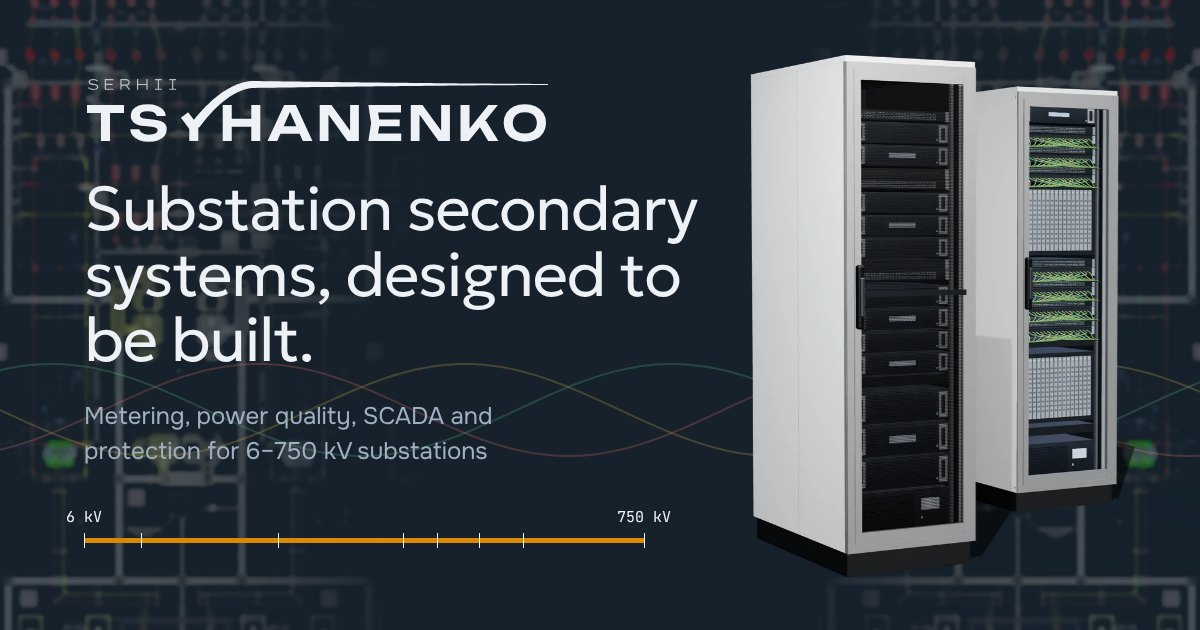
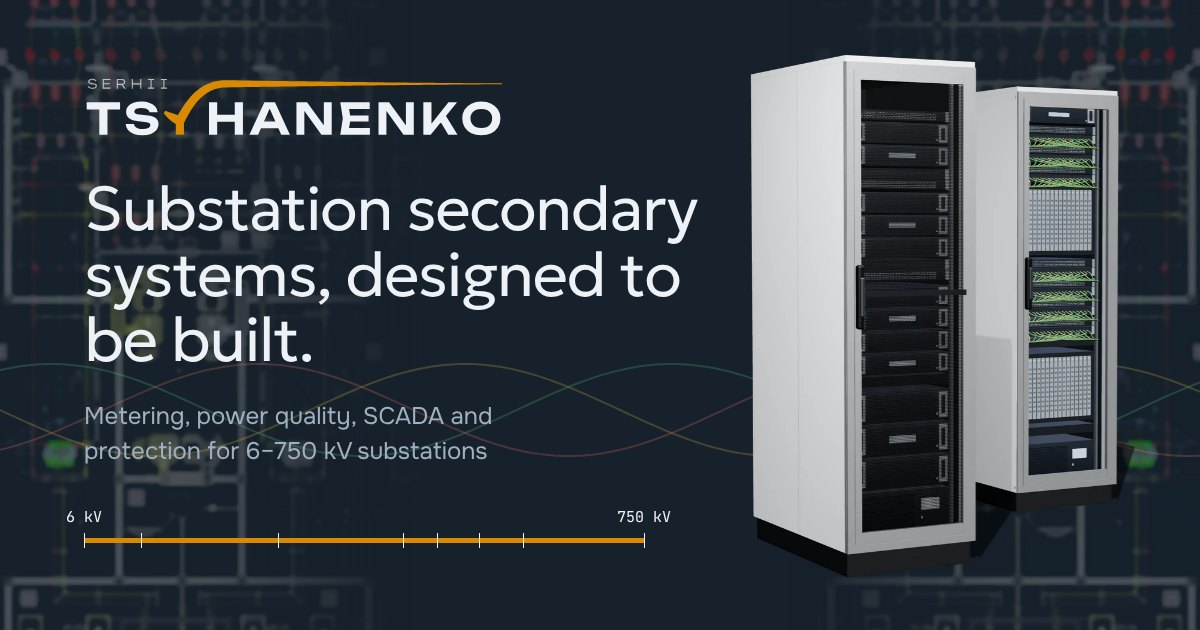
Add files via upload

Changed region(s): [[0.0617, 0.1206, 0.4625, 0.2413]]

diff --git a/index.html b/index.html
@@ -22,7 +22,7 @@
 <meta name="twitter:image" content="https://tsyhanenko-engineering.github.io/og.jpg">
 <link rel="apple-touch-icon" href="apple-touch-icon.png">
 <meta name="author" content="Serhii Tsyhanenko">
[2 lines of base64/hex data omitted]
 <link rel="preconnect" href="https://fonts.googleapis.com">
 <link rel="preconnect" href="https://fonts.gstatic.com" crossorigin>
 <link rel="stylesheet" href="https://fonts.googleapis.com/css2?family=Geologica:wght@300;500&family=JetBrains+Mono:wght@400&family=Onest:wght@400;600&display=swap">
@@ -57,7 +57,7 @@ nav a:hover{color:var(--fg)}
 .lang button{padding:0 12px}
 .lang button+button{border-left:0}
 .lang button:first-child{border-radius:2px 0 0 2px}.lang button:last-child{border-radius:0 2px 2px 0}
-.lang button[aria-pressed="true"]{background:var(--fg);border-color:var(--fg);color:var(--bg)}
+.lang button[aria-pressed="true"]{background:var(--accent);border-color:var(--accent);color:#1a1205}
 .th{width:36px;border-radius:2px;font-size:16px}
 @media (max-width:860px){nav{display:none}.hr{margin-left:auto}}
 
@@ -148,7 +148,7 @@ footer .wrap{padding-block:28px 40px;color:var(--mute);font-size:15px}
 
 <div class="sd l" aria-hidden="true"></div><div class="sd r" aria-hidden="true"></div>
 <header class="top"><div class="wrap">
-<span class="brand"><svg class="wm" role="img" aria-label="Serhii Tsyhanenko" xmlns="http://www.w3.org/2000/svg" viewBox="0 -3.48 440.79 60.48"><path d="M8.81942857142857 7.8657142857142865Q7.799428571428571 7.8657142857142865 6.910571428571428 7.647142857142858Q6.021714285714285 7.428571428571429 5.263999999999999 6.998714285714286Q4.506285714285714 6.568857142857143 3.894285714285714 5.913142857142858L4.593714285714285 4.966000000000001Q5.511714285714286 5.927714285714287 6.5608571428571425 6.364857142857144Q7.609999999999999 6.8020000000000005 8.81942857142857 6.8020000000000005Q9.781142857142857 6.8020000000000005 10.568 6.576142857142857Q11.354857142857142 6.3502857142857145 11.835714285714285 5.8985714285714295Q12.316571428571427 5.4468571428571435 12.302 4.805714285714286Q12.302 4.36857142857143 12.039714285714286 4.091714285714287Q11.77742857142857 3.814857142857144 11.362142857142857 3.640000000000001Q10.946857142857143 3.465142857142858 10.451428571428572 3.3704285714285724Q9.956 3.2757142857142867 9.504285714285714 3.2247142857142865Q9.052571428571428 3.1737142857142864 8.71742857142857 3.130000000000001Q7.828571428571428 2.998857142857144 7.041714285714285 2.824000000000001Q6.2548571428571424 2.6491428571428584 5.6574285714285715 2.3431428571428583Q5.06 2.0371428571428583 4.724857142857143 1.5490000000000013Q4.389714285714286 1.0608571428571443 4.389714285714286 0.3322857142857156Q4.389714285714286 -0.36714285714285566 4.7175714285714285 -0.9062857142857128Q5.045428571428571 -1.44542857142857 5.642857142857142 -1.824285714285713Q6.240285714285714 -2.203142857142856 7.034428571428571 -2.3925714285714275Q7.828571428571428 -2.581999999999999 8.746571428571428 -2.581999999999999Q9.73742857142857 -2.581999999999999 10.546142857142856 -2.3707142857142847Q11.354857142857142 -2.1594285714285704 12.003285714285713 -1.7587142857142846Q12.651714285714284 -1.3579999999999988 13.103428571428571 -0.7751428571428551L12.360285714285714 0.07000000000000117Q11.923142857142857 -0.4399999999999995 11.362142857142857 -0.7969999999999988Q10.801142857142857 -1.1539999999999981 10.138142857142856 -1.3434285714285696Q9.475142857142856 -1.5328571428571411 8.732 -1.5328571428571411Q7.857714285714286 -1.5328571428571411 7.158285714285714 -1.3142857142857132Q6.458857142857142 -1.0957142857142852 6.043571428571428 -0.7168571428571422Q5.628285714285714 -0.3379999999999992 5.628285714285714 0.20114285714285796Q5.628285714285714 0.6965714285714295 5.905142857142857 1.0171428571428582Q6.1819999999999995 1.337714285714287 6.6701428571428565 1.5271428571428585Q7.1582857142857135 1.71657142857143 7.799428571428571 1.825857142857144Q8.440571428571428 1.935142857142858 9.183714285714284 2.0371428571428583Q9.956 2.1245714285714294 10.721 2.2702857142857154Q11.485999999999999 2.4160000000000013 12.127142857142857 2.68557142857143Q12.768285714285714 2.9551428571428584 13.154428571428571 3.436000000000001Q13.540571428571427 3.9168571428571437 13.540571428571427 4.732857142857144Q13.540571428571427 5.665428571428572 12.957714285714285 6.372142857142858Q12.374857142857142 7.078857142857143 11.31842857142857 7.472285714285714Q10.261999999999999 7.8657142857142865 8.81942857142857 7.8657142857142865ZM19.645999999999997 7.720000000000001V-2.4799999999999986H27.86428571428571V-1.3725714285714279H20.782571428571426V6.612571428571429H27.835142857142856V7.720000000000001ZM20.257999999999996 3.0280000000000014V1.9205714285714297H27.04828571428571V3.0280000000000014ZM34.406857142857135 7.720000000000001V-2.4799999999999986H40.016857142857134Q40.93485714285714 -2.4799999999999986 41.67071428571428 -2.0719999999999983Q42.406571428571425 -1.663999999999998 42.843714285714285 -0.9718571428571412Q43.28085714285714 -0.27971428571428447 43.28085714285714 0.5654285714285727Q43.28085714285714 1.5125714285714293 42.814571428571426 2.233857142857144Q42.34828571428571 2.9551428571428584 41.55414285714285 3.3631428571428583Q40.75999999999999 3.7711428571428582 39.76914285714285 3.7711428571428582H35.543428571428564V7.720000000000001ZM42.464857142857134 7.720000000000001 39.025999999999996 3.232000000000001 40.177142857142854 2.8822857142857154 43.87828571428571 7.720000000000001ZM35.543428571428564 2.6637142857142866H39.62342857142856Q40.32285714285714 2.6637142857142866 40.876571428571424 2.386857142857144Q41.43028571428571 2.110000000000001 41.75085714285714 1.643714285714287Q42.07142857142857 1.1774285714285728 42.07142857142857 0.5945714285714301Q42.07142857142857 0.04085714285714381 41.75085714285714 -0.4035714285714276Q41.43028571428571 -0.847999999999999 40.89114285714285 -1.1102857142857134Q40.352 -1.3725714285714279 39.69628571428571 -1.3725714285714279H35.543428571428564ZM59.017999999999994 7.720000000000001V-2.4799999999999986H60.15457142857142V7.720000000000001ZM50.15857142857142 7.720000000000001V-2.4799999999999986H51.29514285714285V7.720000000000001ZM50.71228571428571 3.2465714285714293 50.726857142857135 2.1391428571428586H59.49885714285713V3.2465714285714293ZM67.14885714285714 7.720000000000001V6.568857142857143H69.81542857142857V-1.3288571428571423H67.14885714285714V-2.4799999999999986H73.61857142857141V-1.3288571428571423H70.952V6.568857142857143H73.61857142857141V7.720000000000001ZM80.62742857142857 7.720000000000001V6.568857142857143H83.294V-1.3288571428571423H80.62742857142857V-2.4799999999999986H87.09714285714284V-1.3288571428571423H84.43057142857143V6.568857142857143H87.09714285714284V7.720000000000001Z" fill="currentColor" fill-opacity="0.72"/><path d="M16.053333333333335 25.807999999999996H24.621333333333336V56.0H16.053333333333335ZM2.816 22.0H37.85866666666667V29.570666666666664H2.816ZM43.751999999999995 44.89333333333333H52.410666666666664Q52.63733333333333 46.434666666666665 53.816 47.61333333333333Q54.99466666666667 48.792 56.96666666666667 49.42666666666666Q58.93866666666666 50.06133333333333 61.568 50.06133333333333Q65.33066666666667 50.06133333333333 67.48400000000001 49.01866666666666Q69.63733333333333 47.976 69.63733333333333 46.072Q69.63733333333333 44.62133333333333 68.39066666666668 43.828Q67.144 43.034666666666666 63.744 42.672L57.17066666666667 41.992Q50.32533333333333 41.312 47.26533333333333 38.818666666666665Q44.205333333333336 36.32533333333333 44.205333333333336 32.01866666666666Q44.205333333333336 28.618666666666666 46.22266666666667 26.216Q48.24 23.813333333333333 51.88933333333333 22.543999999999997Q55.538666666666664 21.27466666666666 60.43466666666667 21.27466666666666Q65.28533333333334 21.27466666666666 69.00266666666667 22.679999999999996Q72.72 24.08533333333333 74.94133333333333 26.578666666666663Q77.16266666666667 29.072 77.344 32.42666666666666H68.68533333333333Q68.504 31.02133333333333 67.43866666666668 30.046666666666667Q66.37333333333333 29.072 64.58266666666667 28.505333333333333Q62.792 27.938666666666666 60.29866666666666 27.938666666666666Q56.85333333333333 27.938666666666666 54.836 28.913333333333334Q52.818666666666665 29.887999999999998 52.818666666666665 31.70133333333333Q52.818666666666665 33.06133333333333 54.019999999999996 33.831999999999994Q55.221333333333334 34.602666666666664 58.304 34.965333333333334L65.24000000000001 35.736Q70.0 36.23466666666667 72.856 37.32266666666666Q75.712 38.410666666666664 76.98133333333334 40.31466666666667Q78.25066666666666 42.218666666666664 78.25066666666666 45.12Q78.25066666666666 48.61066666666667 76.14266666666666 51.21733333333333Q74.03466666666667 53.824 70.24933333333334 55.27466666666666Q66.464 56.72533333333333 61.432 56.72533333333333Q56.218666666666664 56.72533333333333 52.29733333333333 55.22933333333333Q48.376 53.733333333333334 46.132 51.08133333333333Q43.888 48.42933333333333 43.751999999999995 44.89333333333333ZM131.20000000000002 22.0H139.768V56.0H131.20000000000002ZM158.21866666666668 22.0H166.7866666666667V56.0H158.21866666666668ZM135.96 35.010666666666665H161.84533333333334V42.536H135.96ZM182.92533333333336 49.154666666666664V42.218666666666664H206.40800000000002V49.154666666666664ZM200.424 22.0 216.10933333333335 56.0H206.99733333333336L193.53333333333336 25.58133333333333H196.16266666666667L182.744 56.0H173.58666666666667L189.31733333333335 22.0ZM254.46133333333336 50.152 251.69600000000003 50.650666666666666V22.0H259.992V56.0H249.2026666666667L228.48533333333336 27.34933333333333L231.2506666666667 26.850666666666665V56.0H222.9546666666667V22.0H234.06133333333335ZM298.61600000000004 35.82666666666667V42.17333333333333H274.00000000000006V35.82666666666667ZM279.8026666666667 39.0 277.53600000000006 53.053333333333335 273.9546666666667 48.97333333333333H300.0666666666667V56.0H268.968L271.5973333333334 39.0L268.968 22.0H299.84000000000003V29.026666666666664H273.9546666666667L277.53600000000006 24.946666666666665ZM340.59466666666674 50.152 337.82933333333335 50.650666666666666V22.0H346.1253333333334V56.0H335.33600000000007L314.6186666666667 27.34933333333333L317.384 26.850666666666665V56.0H309.088V22.0H320.1946666666667ZM356.144 56.0V22.0H364.6666666666667V49.10933333333333L362.3546666666667 47.38666666666667L382.4826666666667 22.0H391.5493333333334L363.8506666666667 56.0ZM372.4186666666667 39.544 378.584 34.239999999999995 392.0026666666667 56.0H382.30133333333333ZM416.98133333333334 56.72533333333333Q410.99733333333336 56.72533333333333 406.4866666666667 54.504Q401.976 52.282666666666664 399.48266666666666 48.29333333333334Q396.9893333333333 44.304 396.9893333333333 39.0Q396.9893333333333 33.696 399.48266666666666 29.706666666666663Q401.976 25.717333333333332 406.4866666666667 23.495999999999995Q410.99733333333336 21.27466666666666 416.98133333333334 21.27466666666666Q422.9653333333334 21.27466666666666 427.476 23.495999999999995Q431.9866666666667 25.717333333333332 434.50266666666664 29.706666666666663Q437.01866666666666 33.696 437.01866666666666 39.0Q437.01866666666666 44.304 434.50266666666664 48.29333333333334Q431.9866666666667 52.282666666666664 427.476 54.504Q422.9653333333334 56.72533333333333 416.98133333333334 56.72533333333333ZM416.98133333333334 49.064Q420.51733333333334 49.064 423.05600000000004 47.86266666666667Q425.5946666666667 46.66133333333333 426.9773333333334 44.394666666666666Q428.36 42.128 428.36 39.0Q428.36 35.872 426.9773333333334 33.605333333333334Q425.5946666666667 31.338666666666665 423.05600000000004 30.13733333333333Q420.51733333333334 28.935999999999996 416.98133333333334 28.935999999999996Q413.4906666666667 28.935999999999996 410.952 30.13733333333333Q408.41333333333336 31.338666666666665 407.00800000000004 33.605333333333334Q405.60266666666666 35.872 405.60266666666666 39.0Q405.60266666666666 42.128 407.00800000000004 44.394666666666666Q408.41333333333336 46.66133333333333 410.952 47.86266666666667Q413.4906666666667 49.064 416.98133333333334 49.064Z" fill="currentColor"/><path d="M95.09 31.49 L103.84 43.08" stroke="currentColor" stroke-width="8.57" stroke-linecap="butt"/><path d="M103.84 40.08 L103.84 56.00" stroke="currentColor" stroke-width="8.57" stroke-linecap="butt"/><path d="M108.80 43.62 L109.55 42.61 L110.28 41.62 L111.02 40.65 L111.75 39.70 L112.48 38.76 L113.20 37.84 L113.93 36.94 L114.65 36.05 L115.37 35.18 L116.09 34.32 L116.80 33.49 L117.51 32.66 L118.22 31.85 L118.93 31.06 L119.63 30.28 L120.33 29.52 L121.03 28.77 L121.72 28.04 L122.41 27.32 L123.10 26.62 L123.79 25.93 L124.47 25.26 L125.15 24.60 L125.82 23.95 L126.49 23.32 L127.16 22.70 L127.83 22.10 L128.49 21.51 L129.15 20.93 L129.80 20.36 L130.45 19.81 L131.10 19.28 L131.75 18.75 L132.39 18.24 L133.02 17.74 L133.66 17.25 L134.28 16.78 L134.91 16.32 L135.53 15.87 L136.15 15.43 L136.76 15.00 L137.37 14.59 L137.97 14.19 L138.57 13.79 L139.17 13.41 L139.76 13.05 L140.35 12.69 L140.93 12.34 L141.51 12.01 L142.08 11.68 L142.65 11.37 L143.22 11.06 L143.78 10.77 L144.34 10.48 L144.89 10.21 L145.43 9.95 L145.98 9.69 L146.51 9.45 L147.05 9.21 L147.57 8.99 L148.10 8.77 L148.61 8.56 L149.13 8.36 L149.63 8.17 L150.13 7.99 L150.63 7.82 L151.12 7.66 L151.61 7.50 L152.09 7.35 L152.57 7.21 L153.04 7.08 L153.50 6.96 L153.96 6.84 L154.42 6.73 L154.87 6.63 L155.31 6.53 L155.75 6.45 L156.18 6.36 L156.61 6.29 L157.03 6.22 L157.44 6.16 L157.85 6.11 L158.26 6.06 L158.66 6.02 L159.05 5.98 L159.43 5.95 L159.81 5.93 L160.19 5.91 L160.55 5.89 L160.92 5.89 L165.55 5.82 L170.18 5.76 L174.81 5.69 L179.44 5.63 L184.07 5.57 L188.70 5.51 L193.33 5.45 L197.96 5.38 L202.60 5.32 L207.23 5.26 L211.86 5.20 L216.49 5.14 L221.12 5.09 L225.75 5.03 L230.38 4.97 L235.01 4.91 L239.65 4.86 L244.28 4.80 L248.91 4.74 L253.54 4.69 L258.17 4.63 L262.80 4.58 L267.43 4.53 L272.06 4.47 L276.69 4.42 L281.33 4.37 L285.96 4.32 L290.59 4.27 L295.22 4.22 L299.85 4.17 L304.48 4.12 L309.11 4.07 L313.74 4.02 L318.38 3.98 L323.01 3.93 L327.64 3.89 L332.27 3.84 L336.90 3.80 L341.53 3.76 L346.16 3.71 L350.79 3.67 L355.43 3.63 L360.06 3.59 L364.69 3.55 L369.32 3.52 L373.95 3.48 L378.58 3.45 L383.21 3.41 L387.84 3.38 L392.47 3.35 L397.11 3.31 L401.74 3.28 L406.37 3.26 L411.00 3.23 L415.63 3.21 L420.26 3.18 L424.89 3.16 L429.52 3.14 L434.16 3.13 L438.79 3.12 L438.79 2.12 L434.16 2.11 L429.52 2.10 L424.89 2.08 L420.26 2.06 L415.63 2.03 L411.00 2.01 L406.37 1.98 L401.74 1.96 L397.11 1.93 L392.47 1.89 L387.84 1.86 L383.21 1.83 L378.58 1.79 L373.95 1.76 L369.32 1.72 L364.69 1.69 L360.06 1.65 L355.43 1.61 L350.79 1.57 L346.16 1.53 L341.53 1.48 L336.90 1.44 L332.27 1.40 L327.64 1.35 L323.01 1.31 L318.38 1.26 L313.74 1.22 L309.11 1.17 L304.48 1.12 L299.85 1.07 L295.22 1.02 L290.59 0.97 L285.96 0.92 L281.33 0.87 L276.69 0.82 L272.06 0.77 L267.43 0.71 L262.80 0.66 L258.17 0.61 L253.54 0.55 L248.91 0.50 L244.28 0.44 L239.65 0.38 L235.01 0.33 L230.38 0.27 L225.75 0.21 L221.12 0.15 L216.49 0.10 L211.86 0.04 L207.23 -0.02 L202.60 -0.08 L197.96 -0.14 L193.33 -0.21 L188.70 -0.27 L184.07 -0.33 L179.44 -0.39 L174.81 -0.45 L170.18 -0.52 L165.55 -0.58 L160.91 -0.65 L160.46 -0.65 L160.00 -0.64 L159.54 -0.63 L159.07 -0.62 L158.59 -0.59 L158.11 -0.56 L157.62 -0.53 L157.13 -0.48 L156.63 -0.43 L156.12 -0.37 L155.61 -0.30 L155.10 -0.23 L154.58 -0.15 L154.05 -0.06 L153.52 0.04 L152.99 0.15 L152.45 0.26 L151.90 0.38 L151.35 0.51 L150.79 0.65 L150.23 0.80 L149.67 0.96 L149.10 1.12 L148.52 1.30 L147.94 1.48 L147.36 1.67 L146.77 1.87 L146.17 2.08 L145.57 2.30 L144.97 2.53 L144.36 2.77 L143.75 3.02 L143.13 3.28 L142.51 3.55 L141.88 3.83 L141.26 4.13 L140.62 4.43 L139.98 4.74 L139.34 5.06 L138.69 5.39 L138.04 5.74 L137.39 6.09 L136.73 6.46 L136.07 6.84 L135.40 7.23 L134.73 7.63 L134.06 8.04 L133.38 8.46 L132.69 8.90 L132.01 9.35 L131.32 9.81 L130.63 10.28 L129.93 10.76 L129.23 11.26 L128.53 11.77 L127.82 12.29 L127.11 12.82 L126.40 13.37 L125.68 13.93 L124.96 14.51 L124.23 15.10 L123.51 15.70 L122.78 16.31 L122.04 16.94 L121.31 17.58 L120.57 18.24 L119.82 18.90 L119.08 19.59 L118.33 20.29 L117.58 21.00 L116.82 21.73 L116.06 22.47 L115.30 23.22 L114.54 23.99 L113.77 24.78 L113.00 25.58 L112.23 26.40 L111.46 27.23 L110.68 28.08 L109.90 28.94 L109.12 29.82 L108.33 30.71 L107.55 31.62 L106.76 32.55 L105.97 33.49 L105.17 34.45 L104.37 35.42 L103.58 36.41 L102.77 37.42 L101.98 38.44Z" fill="currentColor"/></svg></span>
+<span class="brand"><svg class="wm" role="img" aria-label="Serhii Tsyhanenko" xmlns="http://www.w3.org/2000/svg" viewBox="0 -3.48 440.79 67.19"><path d="M8.81942857142857 7.8657142857142865Q7.799428571428571 7.8657142857142865 6.910571428571428 7.647142857142858Q6.021714285714285 7.428571428571429 5.263999999999999 6.998714285714286Q4.506285714285714 6.568857142857143 3.894285714285714 5.913142857142858L4.593714285714285 4.966000000000001Q5.511714285714286 5.927714285714287 6.5608571428571425 6.364857142857144Q7.609999999999999 6.8020000000000005 8.81942857142857 6.8020000000000005Q9.781142857142857 6.8020000000000005 10.568 6.576142857142857Q11.354857142857142 6.3502857142857145 11.835714285714285 5.8985714285714295Q12.316571428571427 5.4468571428571435 12.302 4.805714285714286Q12.302 4.36857142857143 12.039714285714286 4.091714285714287Q11.77742857142857 3.814857142857144 11.362142857142857 3.640000000000001Q10.946857142857143 3.465142857142858 10.451428571428572 3.3704285714285724Q9.956 3.2757142857142867 9.504285714285714 3.2247142857142865Q9.052571428571428 3.1737142857142864 8.71742857142857 3.130000000000001Q7.828571428571428 2.998857142857144 7.041714285714285 2.824000000000001Q6.2548571428571424 2.6491428571428584 5.6574285714285715 2.3431428571428583Q5.06 2.0371428571428583 4.724857142857143 1.5490000000000013Q4.389714285714286 1.0608571428571443 4.389714285714286 0.3322857142857156Q4.389714285714286 -0.36714285714285566 4.7175714285714285 -0.9062857142857128Q5.045428571428571 -1.44542857142857 5.642857142857142 -1.824285714285713Q6.240285714285714 -2.203142857142856 7.034428571428571 -2.3925714285714275Q7.828571428571428 -2.581999999999999 8.746571428571428 -2.581999999999999Q9.73742857142857 -2.581999999999999 10.546142857142856 -2.3707142857142847Q11.354857142857142 -2.1594285714285704 12.003285714285713 -1.7587142857142846Q12.651714285714284 -1.3579999999999988 13.103428571428571 -0.7751428571428551L12.360285714285714 0.07000000000000117Q11.923142857142857 -0.4399999999999995 11.362142857142857 -0.7969999999999988Q10.801142857142857 -1.1539999999999981 10.138142857142856 -1.3434285714285696Q9.475142857142856 -1.5328571428571411 8.732 -1.5328571428571411Q7.857714285714286 -1.5328571428571411 7.158285714285714 -1.3142857142857132Q6.458857142857142 -1.0957142857142852 6.043571428571428 -0.7168571428571422Q5.628285714285714 -0.3379999999999992 5.628285714285714 0.20114285714285796Q5.628285714285714 0.6965714285714295 5.905142857142857 1.0171428571428582Q6.1819999999999995 1.337714285714287 6.6701428571428565 1.5271428571428585Q7.1582857142857135 1.71657142857143 7.799428571428571 1.825857142857144Q8.440571428571428 1.935142857142858 9.183714285714284 2.0371428571428583Q9.956 2.1245714285714294 10.721 2.2702857142857154Q11.485999999999999 2.4160000000000013 12.127142857142857 2.68557142857143Q12.768285714285714 2.9551428571428584 13.154428571428571 3.436000000000001Q13.540571428571427 3.9168571428571437 13.540571428571427 4.732857142857144Q13.540571428571427 5.665428571428572 12.957714285714285 6.372142857142858Q12.374857142857142 7.078857142857143 11.31842857142857 7.472285714285714Q10.261999999999999 7.8657142857142865 8.81942857142857 7.8657142857142865ZM19.645999999999997 7.720000000000001V-2.4799999999999986H27.86428571428571V-1.3725714285714279H20.782571428571426V6.612571428571429H27.835142857142856V7.720000000000001ZM20.257999999999996 3.0280000000000014V1.9205714285714297H27.04828571428571V3.0280000000000014ZM34.406857142857135 7.720000000000001V-2.4799999999999986H40.016857142857134Q40.93485714285714 -2.4799999999999986 41.67071428571428 -2.0719999999999983Q42.406571428571425 -1.663999999999998 42.843714285714285 -0.9718571428571412Q43.28085714285714 -0.27971428571428447 43.28085714285714 0.5654285714285727Q43.28085714285714 1.5125714285714293 42.814571428571426 2.233857142857144Q42.34828571428571 2.9551428571428584 41.55414285714285 3.3631428571428583Q40.75999999999999 3.7711428571428582 39.76914285714285 3.7711428571428582H35.543428571428564V7.720000000000001ZM42.464857142857134 7.720000000000001 39.025999999999996 3.232000000000001 40.177142857142854 2.8822857142857154 43.87828571428571 7.720000000000001ZM35.543428571428564 2.6637142857142866H39.62342857142856Q40.32285714285714 2.6637142857142866 40.876571428571424 2.386857142857144Q41.43028571428571 2.110000000000001 41.75085714285714 1.643714285714287Q42.07142857142857 1.1774285714285728 42.07142857142857 0.5945714285714301Q42.07142857142857 0.04085714285714381 41.75085714285714 -0.4035714285714276Q41.43028571428571 -0.847999999999999 40.89114285714285 -1.1102857142857134Q40.352 -1.3725714285714279 39.69628571428571 -1.3725714285714279H35.543428571428564ZM59.017999999999994 7.720000000000001V-2.4799999999999986H60.15457142857142V7.720000000000001ZM50.15857142857142 7.720000000000001V-2.4799999999999986H51.29514285714285V7.720000000000001ZM50.71228571428571 3.2465714285714293 50.726857142857135 2.1391428571428586H59.49885714285713V3.2465714285714293ZM67.14885714285714 7.720000000000001V6.568857142857143H69.81542857142857V-1.3288571428571423H67.14885714285714V-2.4799999999999986H73.61857142857141V-1.3288571428571423H70.952V6.568857142857143H73.61857142857141V7.720000000000001ZM80.62742857142857 7.720000000000001V6.568857142857143H83.294V-1.3288571428571423H80.62742857142857V-2.4799999999999986H87.09714285714284V-1.3288571428571423H84.43057142857143V6.568857142857143H87.09714285714284V7.720000000000001Z" fill="currentColor" fill-opacity="0.72"/><path d="M16.053333333333335 25.807999999999996H24.621333333333336V56.0H16.053333333333335ZM2.816 22.0H37.85866666666667V29.570666666666664H2.816ZM43.751999999999995 44.89333333333333H52.410666666666664Q52.63733333333333 46.434666666666665 53.816 47.61333333333333Q54.99466666666667 48.792 56.96666666666667 49.42666666666666Q58.93866666666666 50.06133333333333 61.568 50.06133333333333Q65.33066666666667 50.06133333333333 67.48400000000001 49.01866666666666Q69.63733333333333 47.976 69.63733333333333 46.072Q69.63733333333333 44.62133333333333 68.39066666666668 43.828Q67.144 43.034666666666666 63.744 42.672L57.17066666666667 41.992Q50.32533333333333 41.312 47.26533333333333 38.818666666666665Q44.205333333333336 36.32533333333333 44.205333333333336 32.01866666666666Q44.205333333333336 28.618666666666666 46.22266666666667 26.216Q48.24 23.813333333333333 51.88933333333333 22.543999999999997Q55.538666666666664 21.27466666666666 60.43466666666667 21.27466666666666Q65.28533333333334 21.27466666666666 69.00266666666667 22.679999999999996Q72.72 24.08533333333333 74.94133333333333 26.578666666666663Q77.16266666666667 29.072 77.344 32.42666666666666H68.68533333333333Q68.504 31.02133333333333 67.43866666666668 30.046666666666667Q66.37333333333333 29.072 64.58266666666667 28.505333333333333Q62.792 27.938666666666666 60.29866666666666 27.938666666666666Q56.85333333333333 27.938666666666666 54.836 28.913333333333334Q52.818666666666665 29.887999999999998 52.818666666666665 31.70133333333333Q52.818666666666665 33.06133333333333 54.019999999999996 33.831999999999994Q55.221333333333334 34.602666666666664 58.304 34.965333333333334L65.24000000000001 35.736Q70.0 36.23466666666667 72.856 37.32266666666666Q75.712 38.410666666666664 76.98133333333334 40.31466666666667Q78.25066666666666 42.218666666666664 78.25066666666666 45.12Q78.25066666666666 48.61066666666667 76.14266666666666 51.21733333333333Q74.03466666666667 53.824 70.24933333333334 55.27466666666666Q66.464 56.72533333333333 61.432 56.72533333333333Q56.218666666666664 56.72533333333333 52.29733333333333 55.22933333333333Q48.376 53.733333333333334 46.132 51.08133333333333Q43.888 48.42933333333333 43.751999999999995 44.89333333333333Z" fill="currentColor"/><path d="M131.20000000000002 22.0H139.768V56.0H131.20000000000002ZM158.21866666666668 22.0H166.7866666666667V56.0H158.21866666666668ZM135.96 35.010666666666665H161.84533333333334V42.536H135.96ZM182.92533333333336 49.154666666666664V42.218666666666664H206.40800000000002V49.154666666666664ZM200.424 22.0 216.10933333333335 56.0H206.99733333333336L193.53333333333336 25.58133333333333H196.16266666666667L182.744 56.0H173.58666666666667L189.31733333333335 22.0ZM254.46133333333336 50.152 251.69600000000003 50.650666666666666V22.0H259.992V56.0H249.2026666666667L228.48533333333336 27.34933333333333L231.2506666666667 26.850666666666665V56.0H222.9546666666667V22.0H234.06133333333335ZM298.61600000000004 35.82666666666667V42.17333333333333H274.00000000000006V35.82666666666667ZM279.8026666666667 39.0 277.53600000000006 53.053333333333335 273.9546666666667 48.97333333333333H300.0666666666667V56.0H268.968L271.5973333333334 39.0L268.968 22.0H299.84000000000003V29.026666666666664H273.9546666666667L277.53600000000006 24.946666666666665ZM340.59466666666674 50.152 337.82933333333335 50.650666666666666V22.0H346.1253333333334V56.0H335.33600000000007L314.6186666666667 27.34933333333333L317.384 26.850666666666665V56.0H309.088V22.0H320.1946666666667ZM356.144 56.0V22.0H364.6666666666667V49.10933333333333L362.3546666666667 47.38666666666667L382.4826666666667 22.0H391.5493333333334L363.8506666666667 56.0ZM372.4186666666667 39.544 378.584 34.239999999999995 392.0026666666667 56.0H382.30133333333333ZM416.98133333333334 56.72533333333333Q410.99733333333336 56.72533333333333 406.4866666666667 54.504Q401.976 52.282666666666664 399.48266666666666 48.29333333333334Q396.9893333333333 44.304 396.9893333333333 39.0Q396.9893333333333 33.696 399.48266666666666 29.706666666666663Q401.976 25.717333333333332 406.4866666666667 23.495999999999995Q410.99733333333336 21.27466666666666 416.98133333333334 21.27466666666666Q422.9653333333334 21.27466666666666 427.476 23.495999999999995Q431.9866666666667 25.717333333333332 434.50266666666664 29.706666666666663Q437.01866666666666 33.696 437.01866666666666 39.0Q437.01866666666666 44.304 434.50266666666664 48.29333333333334Q431.9866666666667 52.282666666666664 427.476 54.504Q422.9653333333334 56.72533333333333 416.98133333333334 56.72533333333333ZM416.98133333333334 49.064Q420.51733333333334 49.064 423.05600000000004 47.86266666666667Q425.5946666666667 46.66133333333333 426.9773333333334 44.394666666666666Q428.36 42.128 428.36 39.0Q428.36 35.872 426.9773333333334 33.605333333333334Q425.5946666666667 31.338666666666665 423.05600000000004 30.13733333333333Q420.51733333333334 28.935999999999996 416.98133333333334 28.935999999999996Q413.4906666666667 28.935999999999996 410.952 30.13733333333333Q408.41333333333336 31.338666666666665 407.00800000000004 33.605333333333334Q405.60266666666666 35.872 405.60266666666666 39.0Q405.60266666666666 42.128 407.00800000000004 44.394666666666666Q408.41333333333336 46.66133333333333 410.952 47.86266666666667Q413.4906666666667 49.064 416.98133333333334 49.064Z" fill="currentColor"/><path d="M100.61 39.72 V56.00" style="stroke:var(--accent)" stroke-width="8.57"/><path d="M83.60 33.40 L84.06 33.99 L84.53 34.57 L85.01 35.16 L85.50 35.73 L86.00 36.29 L86.50 36.85 L87.00 37.39 L87.51 37.93 L88.03 38.45 L88.55 38.96 L89.07 39.46 L89.60 39.94 L90.13 40.41 L90.66 40.87 L91.18 41.31 L91.71 41.73 L92.24 42.14 L92.76 42.53 L93.28 42.91 L93.80 43.27 L94.31 43.62 L94.81 43.94 L95.31 44.26 L95.79 44.55 L96.27 44.83 L96.74 45.10 L97.19 45.35 L97.63 45.59 L98.06 45.81 L103.63 45.45 L105.33 42.99 L105.78 42.09 L106.23 41.19 L106.68 40.31 L107.14 39.43 L107.60 38.55 L108.06 37.68 L108.53 36.82 L108.99 35.97 L109.47 35.13 L109.94 34.29 L110.42 33.46 L110.91 32.65 L111.40 31.84 L111.89 31.03 L112.38 30.24 L112.88 29.46 L113.39 28.69 L113.90 27.93 L114.41 27.17 L114.93 26.43 L115.46 25.70 L115.99 24.98 L116.52 24.27 L117.06 23.57 L117.61 22.88 L118.16 22.21 L118.72 21.55 L119.28 20.90 L119.85 20.26 L120.42 19.63 L121.00 19.02 L121.59 18.41 L122.18 17.83 L122.78 17.25 L123.39 16.69 L124.00 16.14 L124.62 15.60 L125.25 15.08 L125.88 14.57 L126.52 14.08 L127.17 13.60 L127.83 13.13 L128.50 12.68 L129.17 12.24 L129.85 11.82 L130.54 11.41 L131.24 11.01 L131.95 10.63 L132.67 10.27 L133.40 9.92 L134.13 9.58 L134.88 9.26 L135.64 8.96 L136.41 8.67 L137.19 8.40 L137.98 8.14 L138.79 7.90 L139.61 7.68 L140.43 7.47 L141.28 7.28 L142.13 7.11 L143.00 6.95 L143.88 6.81 L144.78 6.69 L145.69 6.59 L146.62 6.51 L147.56 6.44 L148.51 6.40 L149.49 6.37 L154.31 6.30 L159.13 6.23 L163.95 6.15 L168.77 6.08 L173.59 6.01 L178.42 5.94 L183.24 5.87 L188.06 5.80 L192.88 5.73 L197.70 5.66 L202.52 5.59 L207.35 5.53 L212.17 5.46 L216.99 5.39 L221.81 5.33 L226.63 5.26 L231.45 5.19 L236.28 5.13 L241.10 5.06 L245.92 5.00 L250.74 4.94 L255.56 4.88 L260.38 4.81 L265.21 4.75 L270.03 4.69 L274.85 4.63 L279.67 4.57 L284.49 4.51 L289.31 4.45 L294.14 4.40 L298.96 4.34 L303.78 4.28 L308.60 4.23 L313.42 4.17 L318.24 4.12 L323.07 4.06 L327.89 4.01 L332.71 3.96 L337.53 3.91 L342.35 3.86 L347.17 3.81 L352.00 3.76 L356.82 3.71 L361.64 3.67 L366.46 3.62 L371.28 3.58 L376.10 3.53 L380.93 3.49 L385.75 3.45 L390.57 3.41 L395.39 3.37 L400.21 3.33 L405.03 3.30 L409.86 3.27 L414.68 3.23 L419.50 3.20 L424.32 3.18 L429.14 3.15 L433.96 3.13 L438.79 3.12 L438.79 2.12 L433.96 2.11 L429.14 2.09 L424.32 2.06 L419.50 2.04 L414.68 2.01 L409.86 1.97 L405.03 1.94 L400.21 1.91 L395.39 1.87 L390.57 1.83 L385.75 1.79 L380.93 1.75 L376.10 1.71 L371.28 1.66 L366.46 1.62 L361.64 1.57 L356.82 1.53 L352.00 1.48 L347.17 1.43 L342.35 1.38 L337.53 1.33 L332.71 1.28 L327.89 1.23 L323.07 1.18 L318.24 1.12 L313.42 1.07 L308.60 1.01 L303.78 0.96 L298.96 0.90 L294.14 0.84 L289.31 0.79 L284.49 0.73 L279.67 0.67 L274.85 0.61 L270.03 0.55 L265.21 0.49 L260.38 0.43 L255.56 0.36 L250.74 0.30 L245.92 0.24 L241.10 0.18 L236.28 0.11 L231.45 0.05 L226.63 -0.02 L221.81 -0.09 L216.99 -0.15 L212.17 -0.22 L207.35 -0.29 L202.52 -0.35 L197.70 -0.42 L192.88 -0.49 L188.06 -0.56 L183.24 -0.63 L178.42 -0.70 L173.59 -0.77 L168.77 -0.84 L163.95 -0.91 L159.13 -0.99 L154.31 -1.06 L149.48 -1.13 L148.36 -1.14 L147.24 -1.12 L146.14 -1.08 L145.05 -1.01 L143.97 -0.92 L142.91 -0.81 L141.85 -0.68 L140.81 -0.53 L139.78 -0.35 L138.76 -0.16 L137.75 0.06 L136.75 0.30 L135.77 0.56 L134.80 0.85 L133.84 1.15 L132.89 1.47 L131.95 1.81 L131.02 2.17 L130.11 2.55 L129.21 2.95 L128.32 3.37 L127.44 3.81 L126.57 4.26 L125.72 4.73 L124.87 5.22 L124.04 5.72 L123.22 6.25 L122.41 6.78 L121.61 7.34 L120.83 7.90 L120.05 8.49 L119.28 9.08 L118.53 9.70 L117.78 10.32 L117.05 10.96 L116.32 11.61 L115.61 12.28 L114.91 12.96 L114.21 13.65 L113.53 14.35 L112.85 15.06 L112.18 15.79 L111.52 16.52 L110.87 17.27 L110.23 18.03 L109.60 18.79 L108.97 19.57 L108.35 20.35 L107.74 21.15 L107.14 21.95 L106.55 22.77 L105.96 23.59 L105.38 24.42 L104.80 25.26 L104.23 26.10 L103.67 26.96 L103.11 27.82 L102.56 28.68 L102.02 29.56 L101.48 30.44 L100.94 31.32 L100.41 32.22 L99.89 33.12 L99.37 34.02 L98.85 34.93 L98.34 35.84 L97.83 36.76 L97.33 37.68 L96.83 38.61 L97.59 37.99 L102.34 37.22 L101.91 37.02 L101.47 36.82 L101.02 36.61 L100.55 36.40 L100.07 36.19 L99.57 35.98 L99.06 35.78 L98.53 35.57 L98.00 35.36 L97.45 35.15 L96.89 34.94 L96.31 34.74 L95.73 34.53 L95.14 34.33 L94.53 34.12 L93.92 33.91 L93.30 33.71 L92.66 33.50 L92.03 33.29 L91.38 33.08 L90.73 32.87 L90.08 32.66 L89.42 32.44 L88.75 32.21 L88.08 31.99 L87.42 31.75 L86.75 31.51 L86.08 31.26 L85.40 31.00Z" style="fill:var(--accent)"/></svg></span>
 <nav aria-label="Sections"><a href="#design" data-k="s1">What I design</a><a href="#projects" data-k="s2">Projects</a><a href="#equipment" data-k="s3">Equipment I design with</a><a href="#contact" data-k="s4">Work with me</a></nav>
 <div class="hr">
 <div class="lang" role="group" aria-label="Language"><button type="button" data-l="en" aria-pressed="true">EN</button><button type="button" data-l="uk" aria-pressed="false">UA</button><button type="button" data-l="ru" aria-pressed="false">RU</button></div>
@@ -237,7 +237,7 @@ footer .wrap{padding-block:28px 40px;color:var(--mute);font-size:15px}
 <p class="mail"><span id="addr">stsyganenko.sep@gmail.com</span><button id="cp" type="button" data-k="copy">Copy</button></p>
 </div></section>
 </main>
-<footer><div class="wrap foot"><svg class="mark" viewBox="0 0 64 64" aria-hidden="true" focusable="false"><rect width="64" height="64" rx="12" fill="#16212c"/><path d="M20.46 28.37 L28.18 38.60" stroke="#eef2f6" stroke-width="7.56" stroke-linecap="butt"/><path d="M28.18 35.95 L28.18 50.00" stroke="#eef2f6" stroke-width="7.56" stroke-linecap="butt"/><path d="M32.56 39.08 L32.96 38.43 L33.35 37.80 L33.75 37.18 L34.15 36.58 L34.54 35.98 L34.94 35.39 L35.33 34.82 L35.73 34.25 L36.12 33.70 L36.51 33.15 L36.91 32.62 L37.30 32.09 L37.69 31.58 L38.09 31.07 L38.48 30.58 L38.87 30.09 L39.26 29.61 L39.65 29.15 L40.04 28.69 L40.42 28.24 L40.81 27.80 L41.20 27.37 L41.58 26.95 L41.97 26.53 L42.35 26.13 L42.73 25.74 L43.11 25.35 L43.49 24.97 L43.87 24.60 L44.25 24.24 L44.62 23.89 L45.00 23.54 L45.37 23.21 L45.75 22.88 L46.12 22.56 L46.49 22.25 L46.85 21.94 L47.22 21.64 L47.59 21.35 L47.95 21.07 L48.31 20.80 L48.67 20.53 L49.03 20.27 L49.39 20.02 L49.74 19.77 L50.09 19.54 L50.45 19.30 L50.80 19.08 L51.14 18.86 L51.49 18.65 L51.83 18.45 L52.17 18.25 L52.51 18.06 L52.85 17.87 L53.19 17.69 L53.52 17.52 L53.85 17.35 L54.18 17.19 L54.50 17.04 L54.83 16.89 L55.15 16.74 L55.47 16.61 L55.79 16.48 L56.10 16.35 L56.41 16.23 L56.72 16.11 L57.03 16.00 L57.33 15.90 L57.64 15.80 L57.94 15.70 L58.23 15.61 L58.53 15.53 L58.82 15.45 L59.10 15.37 L59.39 15.30 L59.67 15.23 L59.95 15.17 L60.23 15.11 L60.50 15.06 L60.77 15.01 L61.04 14.96 L61.30 14.92 L61.57 14.88 L61.82 14.85 L62.08 14.82 L62.33 14.80 L62.58 14.77 L62.83 14.75 L63.07 14.74 L63.32 14.73 L63.18 13.28 L63.06 13.28 L62.94 13.29 L62.82 13.29 L62.70 13.30 L62.58 13.31 L62.45 13.31 L62.33 13.32 L62.21 13.32 L62.09 13.33 L61.97 13.33 L61.84 13.33 L61.72 13.34 L61.60 13.34 L61.48 13.35 L61.36 13.35 L61.24 13.36 L61.11 13.36 L60.99 13.37 L60.87 13.37 L60.75 13.38 L60.63 13.38 L60.51 13.39 L60.38 13.39 L60.26 13.39 L60.14 13.40 L60.02 13.40 L59.90 13.41 L59.77 13.41 L59.65 13.41 L59.53 13.42 L59.41 13.42 L59.29 13.43 L59.17 13.43 L59.04 13.43 L58.92 13.44 L58.80 13.44 L58.68 13.44 L58.56 13.45 L58.44 13.45 L58.31 13.45 L58.19 13.46 L58.07 13.46 L57.95 13.46 L57.83 13.47 L57.70 13.47 L57.58 13.47 L57.46 13.48 L57.34 13.48 L57.22 13.48 L57.10 13.48 L56.97 13.49 L56.85 13.49 L56.73 13.49 L56.61 13.49 L56.49 13.49 L56.37 13.50 L56.24 13.50 L56.12 13.50 L56.00 13.50 L56.00 14.50 L56.12 14.50 L56.24 14.50 L56.37 14.50 L56.49 14.51 L56.61 14.51 L56.73 14.51 L56.85 14.51 L56.97 14.51 L57.10 14.52 L57.22 14.52 L57.34 14.52 L57.46 14.52 L57.58 14.53 L57.70 14.53 L57.83 14.53 L57.95 14.54 L58.07 14.54 L58.19 14.54 L58.31 14.55 L58.44 14.55 L58.56 14.55 L58.68 14.56 L58.80 14.56 L58.92 14.56 L59.04 14.57 L59.17 14.57 L59.29 14.57 L59.41 14.58 L59.53 14.58 L59.65 14.59 L59.77 14.59 L59.90 14.59 L60.02 14.60 L60.14 14.60 L60.26 14.61 L60.38 14.61 L60.51 14.61 L60.63 14.62 L60.75 14.62 L60.87 14.63 L60.99 14.63 L61.11 14.64 L61.24 14.64 L61.36 14.65 L61.48 14.65 L61.60 14.66 L61.72 14.66 L61.84 14.67 L61.97 14.67 L62.09 14.67 L62.21 14.68 L62.33 14.68 L62.45 14.69 L62.58 14.69 L62.70 14.70 L62.82 14.71 L62.94 14.71 L63.06 14.72 L63.18 14.72 L63.30 13.27 L63.05 13.26 L62.79 13.26 L62.52 13.26 L62.25 13.26 L61.98 13.26 L61.71 13.27 L61.43 13.28 L61.14 13.29 L60.85 13.31 L60.56 13.33 L60.27 13.35 L59.97 13.38 L59.67 13.41 L59.36 13.45 L59.05 13.49 L58.74 13.53 L58.42 13.58 L58.10 13.63 L57.78 13.69 L57.45 13.75 L57.12 13.82 L56.78 13.89 L56.44 13.97 L56.10 14.05 L55.76 14.13 L55.41 14.22 L55.05 14.32 L54.70 14.42 L54.34 14.53 L53.98 14.64 L53.61 14.76 L53.24 14.88 L52.87 15.01 L52.49 15.14 L52.11 15.28 L51.73 15.43 L51.34 15.58 L50.95 15.74 L50.56 15.90 L50.16 16.08 L49.76 16.25 L49.36 16.44 L48.96 16.63 L48.55 16.82 L48.14 17.03 L47.72 17.24 L47.30 17.45 L46.88 17.68 L46.46 17.91 L46.03 18.15 L45.60 18.39 L45.16 18.65 L44.73 18.91 L44.29 19.17 L43.84 19.45 L43.40 19.73 L42.95 20.02 L42.50 20.32 L42.04 20.63 L41.58 20.94 L41.12 21.26 L40.66 21.59 L40.19 21.93 L39.72 22.28 L39.25 22.64 L38.78 23.00 L38.30 23.37 L37.82 23.75 L37.33 24.14 L36.85 24.54 L36.36 24.95 L35.86 25.37 L35.37 25.79 L34.87 26.23 L34.37 26.67 L33.87 27.13 L33.36 27.59 L32.85 28.06 L32.34 28.55 L31.82 29.04 L31.31 29.54 L30.79 30.05 L30.26 30.57 L29.74 31.11 L29.21 31.65 L28.68 32.20 L28.15 32.76 L27.61 33.34 L27.07 33.92 L26.54 34.50Z" fill="#eef2f6"/></svg>&copy; 2026 Serhii Tsyhanenko</div></footer>
+<footer><div class="wrap foot"><svg class="mark" viewBox="0 0 64 64" aria-hidden="true" focusable="false"><rect width="64" height="64" rx="12" fill="#16212c"/><path d="M28.33 35.40 V50.00" stroke="#d98a00" stroke-width="7.56"/><path d="M13.32 30.06 L13.73 30.58 L14.15 31.10 L14.57 31.61 L15.01 32.11 L15.45 32.60 L15.89 33.09 L16.35 33.56 L16.80 34.03 L17.26 34.48 L17.72 34.93 L18.18 35.36 L18.65 35.78 L19.11 36.18 L19.58 36.58 L20.04 36.96 L20.51 37.32 L20.97 37.68 L21.42 38.02 L21.87 38.34 L22.32 38.66 L22.76 38.96 L23.19 39.25 L23.61 39.52 L24.03 39.78 L24.43 40.03 L24.82 40.26 L25.20 40.49 L25.57 40.70 L25.92 40.90 L30.18 41.21 L32.28 38.80 L32.46 38.28 L32.65 37.77 L32.83 37.26 L33.02 36.75 L33.21 36.25 L33.40 35.75 L33.60 35.25 L33.79 34.76 L33.99 34.27 L34.20 33.79 L34.40 33.31 L34.61 32.84 L34.83 32.37 L35.04 31.90 L35.26 31.44 L35.48 30.98 L35.71 30.53 L35.94 30.09 L36.17 29.65 L36.41 29.21 L36.65 28.78 L36.90 28.36 L37.15 27.94 L37.40 27.52 L37.66 27.11 L37.92 26.71 L38.19 26.32 L38.46 25.92 L38.74 25.54 L39.02 25.16 L39.31 24.79 L39.60 24.42 L39.89 24.06 L40.19 23.71 L40.50 23.36 L40.81 23.03 L41.13 22.69 L41.46 22.37 L41.79 22.05 L42.12 21.74 L42.46 21.43 L42.81 21.13 L43.17 20.84 L43.53 20.56 L43.90 20.29 L44.27 20.02 L44.66 19.76 L45.04 19.51 L45.44 19.27 L45.85 19.04 L46.26 18.81 L46.68 18.59 L47.10 18.39 L47.54 18.19 L47.98 18.00 L48.43 17.82 L48.89 17.65 L49.36 17.49 L49.84 17.34 L50.32 17.20 L50.82 17.08 L51.32 16.96 L51.83 16.86 L52.35 16.76 L52.88 16.68 L53.41 16.61 L53.96 16.56 L54.52 16.52 L55.08 16.50 L55.08 15.50 L55.08 15.50 L55.07 15.50 L55.07 15.50 L55.07 15.50 L55.07 15.50 L55.07 15.50 L55.07 15.50 L55.07 15.50 L55.07 15.50 L55.06 15.50 L55.06 15.50 L55.06 15.50 L55.06 15.50 L55.06 15.50 L55.06 15.50 L55.06 15.50 L55.06 15.50 L55.05 15.50 L55.05 15.50 L55.05 15.50 L55.05 15.50 L55.05 15.50 L55.05 15.50 L55.05 15.50 L55.04 15.50 L55.04 15.50 L55.04 15.50 L55.04 15.50 L55.04 15.50 L55.04 15.50 L55.04 15.50 L55.04 15.50 L55.03 15.50 L55.03 15.50 L55.03 15.50 L55.03 15.50 L55.03 15.50 L55.03 15.50 L55.03 15.50 L55.02 15.50 L55.02 15.50 L55.02 15.50 L55.02 15.50 L55.02 15.50 L55.02 15.50 L55.02 15.50 L55.02 15.50 L55.01 15.50 L55.01 15.50 L55.01 15.50 L55.01 15.50 L55.01 15.50 L55.01 15.50 L55.01 15.50 L55.01 15.50 L55.00 15.50 L55.00 15.50 L55.00 15.50 L55.00 15.50 L55.00 16.50 L55.00 16.50 L55.00 16.50 L55.00 16.50 L55.01 16.50 L55.01 16.50 L55.01 16.50 L55.01 16.50 L55.01 16.50 L55.01 16.50 L55.01 16.50 L55.01 16.50 L55.02 16.50 L55.02 16.50 L55.02 16.50 L55.02 16.50 L55.02 16.50 L55.02 16.50 L55.02 16.50 L55.02 16.50 L55.03 16.50 L55.03 16.50 L55.03 16.50 L55.03 16.50 L55.03 16.50 L55.03 16.50 L55.03 16.50 L55.04 16.50 L55.04 16.50 L55.04 16.50 L55.04 16.50 L55.04 16.50 L55.04 16.50 L55.04 16.50 L55.04 16.50 L55.05 16.50 L55.05 16.50 L55.05 16.50 L55.05 16.50 L55.05 16.50 L55.05 16.50 L55.05 16.50 L55.06 16.50 L55.06 16.50 L55.06 16.50 L55.06 16.50 L55.06 16.50 L55.06 16.50 L55.06 16.50 L55.06 16.50 L55.07 16.50 L55.07 16.50 L55.07 16.50 L55.07 16.50 L55.07 16.50 L55.07 16.50 L55.07 16.50 L55.07 16.50 L55.08 16.50 L55.08 16.50 L55.07 15.50 L54.49 15.49 L53.92 15.49 L53.34 15.49 L52.78 15.50 L52.22 15.53 L51.66 15.56 L51.11 15.60 L50.57 15.66 L50.03 15.72 L49.50 15.79 L48.97 15.88 L48.44 15.97 L47.92 16.08 L47.41 16.19 L46.90 16.32 L46.39 16.45 L45.89 16.60 L45.39 16.76 L44.90 16.92 L44.41 17.10 L43.93 17.28 L43.45 17.48 L42.98 17.69 L42.51 17.90 L42.04 18.13 L41.58 18.36 L41.12 18.60 L40.66 18.85 L40.21 19.12 L39.77 19.39 L39.33 19.66 L38.89 19.95 L38.45 20.25 L38.02 20.55 L37.60 20.86 L37.17 21.18 L36.75 21.51 L36.34 21.84 L35.93 22.18 L35.52 22.53 L35.11 22.89 L34.71 23.25 L34.31 23.62 L33.92 23.99 L33.53 24.38 L33.14 24.76 L32.75 25.16 L32.37 25.56 L31.99 25.96 L31.61 26.37 L31.24 26.79 L30.87 27.21 L30.50 27.64 L30.13 28.07 L29.77 28.50 L29.41 28.94 L29.05 29.39 L28.69 29.84 L28.34 30.29 L27.99 30.74 L27.63 31.20 L27.29 31.67 L26.94 32.13 L26.59 32.60 L26.25 33.08 L25.91 33.55 L25.57 34.03 L25.23 34.51 L24.89 34.99 L26.48 33.59 L30.01 33.50 L29.61 33.28 L29.20 33.07 L28.78 32.87 L28.34 32.66 L27.90 32.46 L27.44 32.26 L26.98 32.07 L26.51 31.88 L26.02 31.69 L25.53 31.50 L25.03 31.32 L24.51 31.14 L23.99 30.96 L23.47 30.78 L22.93 30.60 L22.39 30.43 L21.84 30.25 L21.29 30.08 L20.72 29.90 L20.16 29.72 L19.59 29.54 L19.01 29.36 L18.43 29.18 L17.85 28.99 L17.27 28.79 L16.68 28.59 L16.09 28.39 L15.50 28.17 L14.91 27.94Z" fill="#d98a00"/></svg>&copy; 2026 Serhii Tsyhanenko</div></footer>
 
 <button id="cb-open" class="cb-fab" type="button" aria-expanded="false" aria-controls="cb" data-k="cbo">Ask a question</button>
 <div id="cb" class="cb" role="dialog" aria-label="Quick answers" hidden>
